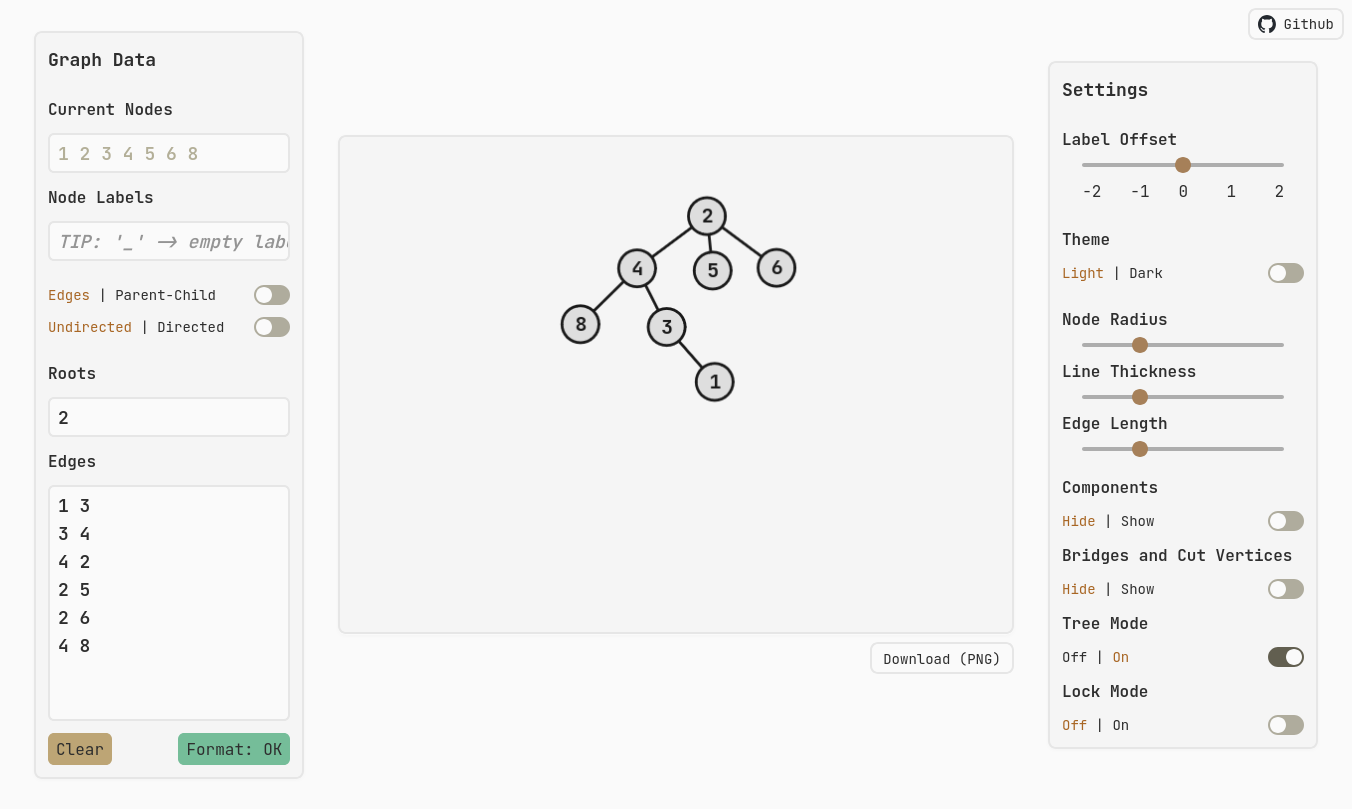
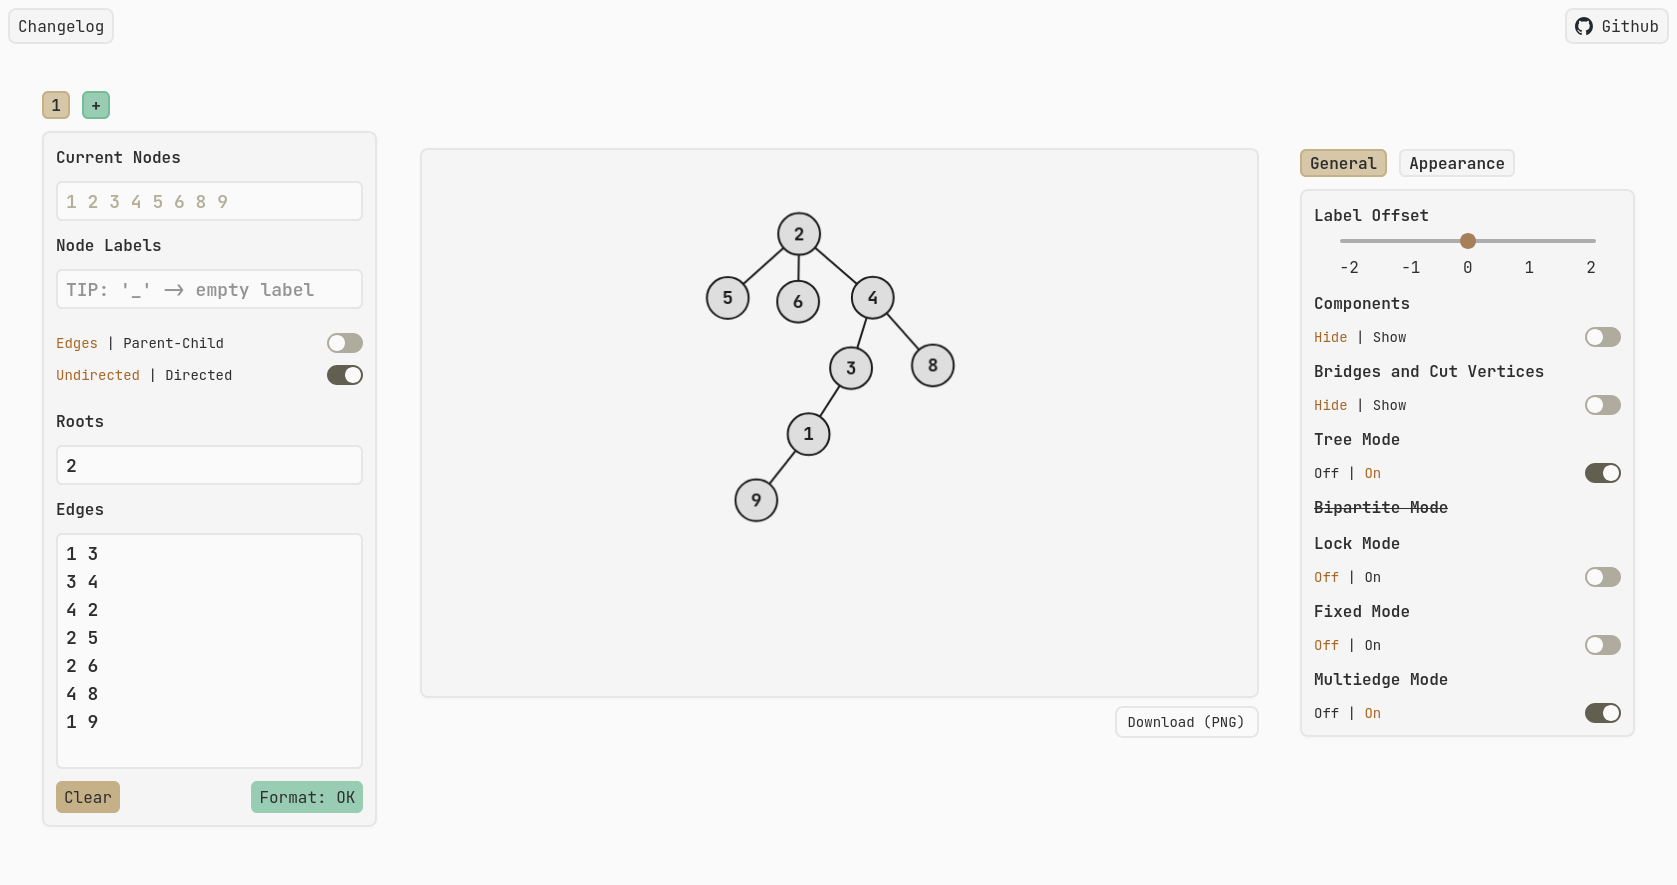
chore: update README

diff --git a/README.md b/README.md
@@ -24,13 +24,17 @@ Made with React, Typescript, Tailwind CSS, and HTML Canvas.
   node `p[i]` to `c[i]`.
   - Assuming a nonzero number of nodes, you may also label each node. This
   is useful in scenarios where you are offered an array `a`, where `a[i]`
-  corresponds to the value at node `i`.
+  corresponds to the value at node `i` (simply copy and paste the given array into
+  **node labels**).
 - Label offset (to convert a zero-indexed input to one-indexed and vice versa)
 - Dark/light themes
-- Undirected/directed mode
-- Normal/tree mode
+- Undirected/directed graphs
+- Normal/tree/bipartite modes
+- Lock mode (fix marked nodes in place)
 - Show/hide bridges and cut vertices
 - Show/hide components
+- Multi-edge support
+- Multi-testcase support
 
 <p align="center">
     <img src="screenshots/parentChild.png?" />
@@ -51,22 +55,6 @@ Made with React, Typescript, Tailwind CSS, and HTML Canvas.
 > [!NOTE]
 > *Tree Mode* and *Bridges* are only available for undirected graphs.
 
-> [!NOTE]
-> For directed graphs, **strongly connected components** are displayed.
-
-## Configuration
-
-In addition to the light/dark themes, there are three sliders available
-for adjusting the *node radius*, *line thickness*, and *edge length* at discrete
-intervals. Your configuration will be preserved across refreshes.
-
-> [!NOTE]
-> As the node radius changes, the font size is scaled accordingly to maintain readability.
-
-By default, the graph is in *Force Mode*, where edges hold everything together
-and nodes repel one another, creating a cool space-like effect. To disable
-this behavior, simply toggle *Lock Mode*.
-
 ## Usage
 
 Adjust the input format to your liking and type away!
@@ -85,9 +73,46 @@ Adjust the input format to your liking and type away!
 > When entering node labels, if you want to skip over a particular node,
 > use the character '_' as a placeholder.
 
-### Tree Mode
+## Handling Multiple Testcases/Graphs
+
+To add a new testcase, click the green button to add a new "tab". You
+may enter each test case into its own separate tab. To delete a tab, hover
+over the desired tab for a moment, and a red cross will show up. Click
+the red cross to delete it.
+
+> [!CAUTION]
+> When you delete a tab, all graph data within that tab will be destroyed,
+> so please proceed with caution.
+
+## Configuration
+
+There are two means of configuration: **General** and **Appearance**, the
+former handles the main "modes" while the latter lets you control how
+the graph is rendered.
+
+### General
+
+#### Components
+This mode reveals the connected components of a graph.
+
+> [!NOTE]
+> For directed graphs, **strongly connected components** are displayed.
+
+Components are distinguished via different colors.
+
+#### Bridges and Cut Vertices
+
+A *bridge* is an edge that increases the number of components when removed.
+A *cut vertice* (aka articulation point) is defined similarly.
+
+Bridges are represented with two parallel lines, while cut vertices take
+on a hexagonal shape.
+
+#### Tree Mode
 
 In this mode, the *first* node that appears in the input data becomes the root.
+Nodes are arranged in "layers" according to their position within the tree
+hierarchy, allowing for easier visualization.
 
 <p align="center">
     <img src="screenshots/twoRootBefore.png?" />
@@ -122,6 +147,51 @@ displayed instead, where *back edges* are displayed as dotted lines.
 <p align="center">
 <em>A DFS Tree With Bridges and Cut Vertices Shown</em>
 </p>
+
+#### Bipartite Mode
+
+Bipartite graphs may also be displayed. Nodes of each disjoint set are
+colored (and positioned) differently.
+
+<p align="center">
+    <img src="screenshots/bipartite.png?" />
+</p>
+
+<p align="center">
+<em>A Bipartite Graph</em>
+</p>
+
+> [!CAUTION]
+> When enabled, both *Tree Mode* and *Components* will be *unset*. This works
+> in reverse as well, when either *Tree Mode* or *Components* is set, *Bipartite
+> Mode* will be turned off.
+
+> [!TIP]
+> If the graph isn't bipartite, this mode becomes unavailable.
+
+#### Lock Mode
+
+By default, the graph is in *Force Mode*, where edges hold everything together
+and nodes repel one another, creating a cool space-like effect. To disable
+this behavior, simply toggle *Lock Mode*.
+
+#### Fixed Mode
+
+You may *mark* a node by clicking it, these nodes have a double border. By
+default, they'll float around as usual. If you wish to fix them in place,
+toggle *Fixed Mode*.
+
+#### Multiedge Mode
+
+This mode allows for multiple edges between two nodes, it's enabled by
+default. When disabled, no matter how many times you enter the same edge,
+only a single one would be registered.
+
+### Appearance
+
+In addition to the light/dark themes, there are multiple sliders available
+for altering parameters like the node radius, font size, etc. Your settings
+are saved across refreshes using `localStorage`.
 
 ## Credits
 
